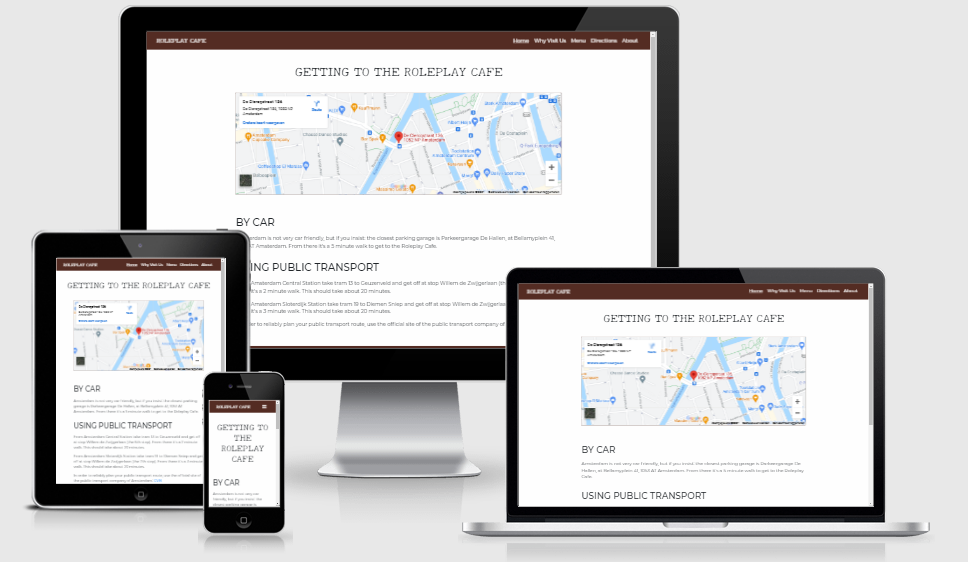
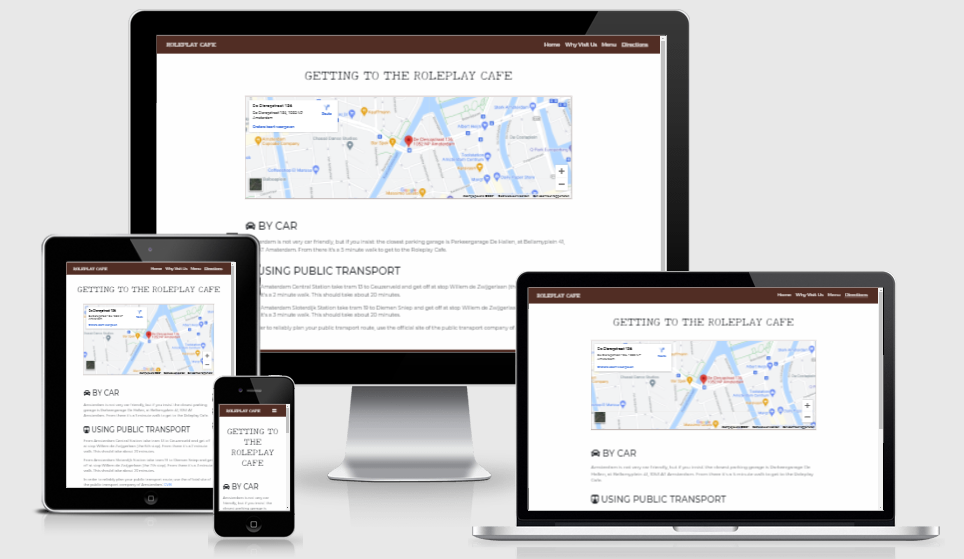
Update readme.md.

Changed region(s): [[0.0311, 0.0, 0.9647, 1.0]]

diff --git a/README.md b/README.md
@@ -204,8 +204,6 @@ Fonts are sourced from Google Fonts. I decided on New Tegomin: I felt it simulat
 - [Directions](/assets/readme-assets/directions.png)
 - [Directions tablet](/assets/readme-assets/directions_tablet.png)
 - [Directions Mobile Version](/assets/readme-assets/directions_mobile_view.png)
-- [About](/assets/readme-assets/about.png)
-- [About Mobile Version](/assets/readme-assets/about_mobile_view.png)
 
 ---
 
@@ -219,20 +217,20 @@ Fonts are sourced from Google Fonts. I decided on New Tegomin: I felt it simulat
 - The Players section: has text about why you should visit the Cafe if you're a player, an evocative image, and a list of upcoming events.
 - The Gamemasters section: has text about why you should visit the Cafe if you're a gamemaster, an evocative image, a list of resources, and a form to submit your game.
 - The Newbies section: has text about why you should visit the Cafe if you're new to roleplaying, an evocative image (only on small screens) and links to two Youtube videos meant to encourage roleplaying.
-- The Menu page: has a food and drinks menu, and images to go with them.
+- The Menu page: has a food and drinks menu, and image carousels to go with them.
 - The Directions page: has an embedded Google Maps map (only show up on breakpoints md and larger) and texts on how to get to the Cafe by car or public transport.
 
 ---
 
 ### Features Left to Implement
 
-As I was working on the project, I realized that I was too ambitious. The project requirements specify a minimum of 3 pages, but I have 5 pages. This, coupled with the difficulty of finding suitable free stock images to use, meant that I didn't have the time or resources to implement these features:
+As I was working on the project, I realized that I was too ambitious. The project requirements specify a minimum of 3 pages, but I had 5 pages. This, coupled with the difficulty of finding suitable free stock images to use, meant that I didn't have the time or resources to implement these features:
 - A Jumbotron on the main page, to highlight the next upcoming event
-- A photo gallery or carousel, to add more images and thus variation to the pages. This could go on the Menu page
 - Calls to action, such as:
     - for players a call to action: perhaps a weekly tournament?
     - for game masters: sign your game up and win
     - for newbies: join this weekly newbie friendly game.
+- Due to time constraints I also decided to leave out the About page: it is the least important page, and also the least interesting from a developer's perspective.
 
 ---
 
@@ -287,7 +285,6 @@ These screenshots indicate the responsiveness of the pages on various screens.
 - :heavy_check_mark: When you click on Why Visit Us, you go to the Why Visit Us page the Why Visit Us page is marked active.
 - :heavy_check_mark: When you click on Menu, you go to the Menu page and the Menu page is marked active.
 - :heavy_check_mark: When you click on Directions, you go to the Directions page the Directions page is marked active.
-- :heavy_check_mark: When you click on About, you go to the About page and the About page is marked active.
 
 - :heavy_check_mark: Hovering over navigation items in the nav bar should show a blue line under the nav item.
 <br/>
@@ -329,6 +326,7 @@ For each link (icon):
 <br/>
 
 <ins>Submit your game form on the "Why Visit Us?" page:</ins>
+- 
 - :heavy_check_mark: Submitting the form without filling in the game description should prompt that the game description is required.
 - :heavy_check_mark: Submitting the form without filling in the email address should prompt that an email address is required.
 - :heavy_check_mark: Submitting the form with an incomplete email address should indicate that the email addres is not correct.
